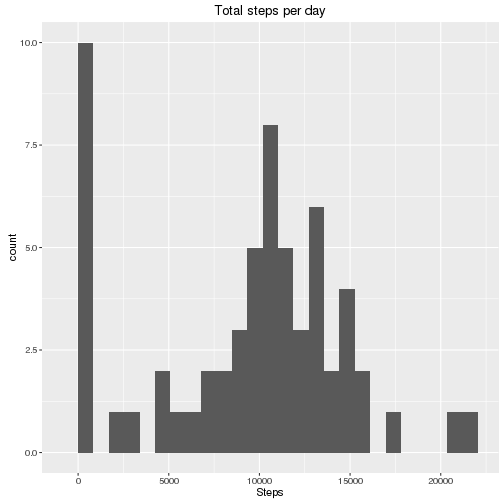
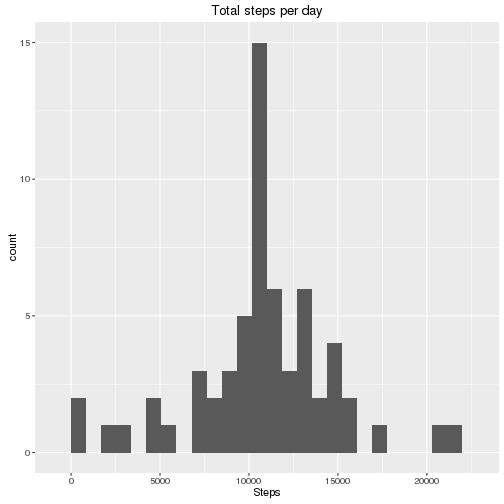
Fixed typo

diff --git a/PA1_template.html b/PA1_template.html
@@ -288,7 +288,7 @@ that interval.</p>
 
 <pre><code class="r">fdf &lt;- df %&gt;%  group_by(interval) %&gt;%  mutate(filled.steps = ifelse(is.na(steps), mean(steps, na.rm=TRUE), steps))
 groups &lt;- group_by(fdf,date)
-sumdf &lt;- summarise(groups,total=sum(steps,na.rm=TRUE))
+sumdf &lt;- summarise(groups,total=sum(filled.steps,na.rm=TRUE))
 </code></pre>
 
 <pre><code class="r">ggplot(data=sumdf, aes(sumdf$total)) +
@@ -296,10 +296,11 @@ geom_histogram(bins=25)+
 labs(x = &quot;Steps&quot;, title = &quot;Total steps per day&quot;)
 </code></pre>
 
[1 lines of base64/hex data omitted]
-The mean of the total number of steps taken per day is 9354.2295082.</p>
[1 lines of base64/hex data omitted]
 
-<p>The median of the total number of steps taken per day is 10395.</p>
+<p>The mean of the total number of steps taken per day is 1.0766189 &times; 10<sup>4</sup>.</p>
+
+<p>The median of the total number of steps taken per day is 1.0766189 &times; 10<sup>4</sup>.</p>
 
 <h2>Are there differences in activity patterns between weekdays and weekends?</h2>
 

diff --git a/PA1_template.md b/PA1_template.md
@@ -99,7 +99,7 @@ that interval.
 ```r
 fdf <- df %>%  group_by(interval) %>%  mutate(filled.steps = ifelse(is.na(steps), mean(steps, na.rm=TRUE), steps))
 groups <- group_by(fdf,date)
-sumdf <- summarise(groups,total=sum(steps,na.rm=TRUE))
+sumdf <- summarise(groups,total=sum(filled.steps,na.rm=TRUE))
 ```
 
 
@@ -111,10 +111,10 @@ labs(x = "Steps", title = "Total steps per day")
 ```
 
 ![plot of chunk histogram of imputed dataframe](figure/histogram of imputed dataframe-1.png) 
-The mean of the total number of steps taken per day is 9354.2295082.
 
-The median of the total number of steps taken per day is 10395.
+The mean of the total number of steps taken per day is 1.0766189 &times; 10<sup>4</sup>.
 
+The median of the total number of steps taken per day is 1.0766189 &times; 10<sup>4</sup>.
 
 
 ## Are there differences in activity patterns between weekdays and weekends?
